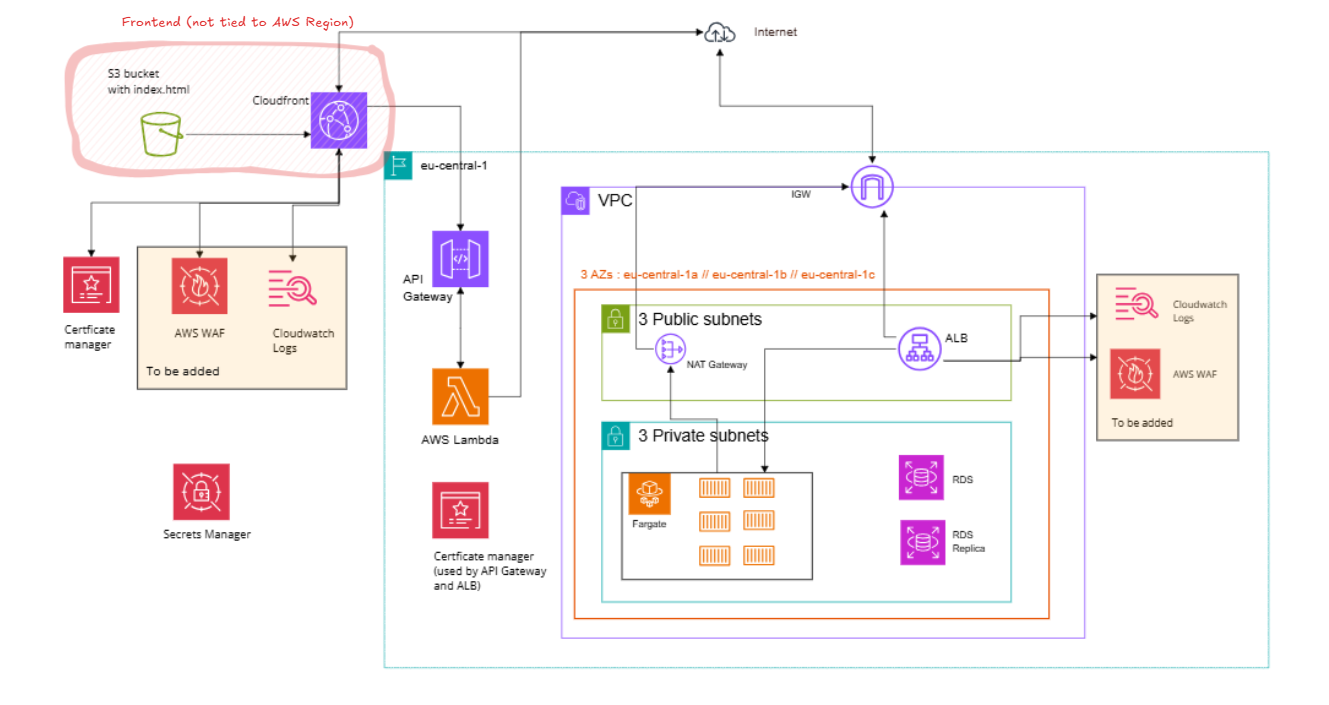
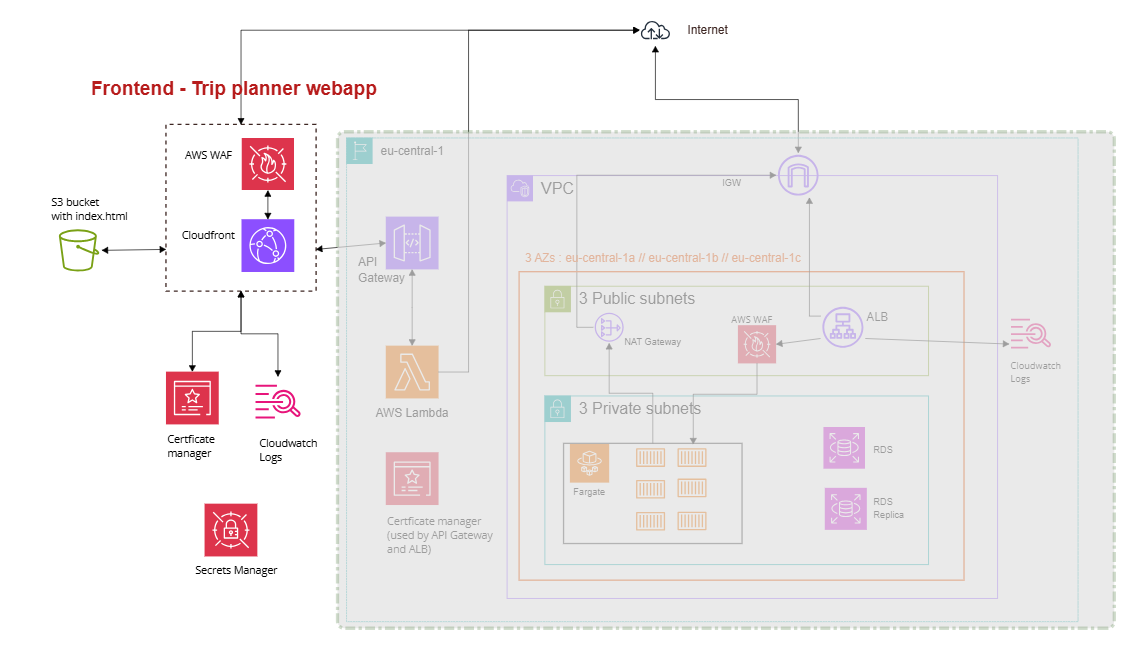
chore: update README

Changed region(s): [[0.0308, 0.0305, 0.9842, 0.9771], [0.3691, 0.0305, 0.6459, 0.0611], [0.5228, 0.1221, 0.6459, 0.1527]]

diff --git a/README.md b/README.md
@@ -1,70 +1,93 @@
 # Trip Planner Infrastructure - managed with Terraform on AWS
-  
-<img src="docs/full-diagram.png" alt="trip-planner-infrastructure">
 
 # Table of Contents
-- [Backend Infrastructure (TripPlannerAPI)](#backend-infrastructure-of-tripplannerapi)
-  - [Infrastructure Overview](#infrastructure-overview)
-  - [Gotchas & Lessons Learned](#-gotcha---what-i-have-learned)
+- [Backend Infrastructure (TripPlannerAPI)](#backend-infrastructure-tripplannerapi)
+  - [Overview](#overview)
+  - [Key Attributes](#key-attributes)
+  - [Gotchas & Lessons Learned](#-gotchas---lessons-learned-sometimes-the-hard-way)
 - [Locations API (AWS Lambda + API Gateway)](#locations-api-aws-lambda--api-gateway)
-  - [Infrastructure Overview](#infrastructure-overview-1)
-  - [Environment Variables & Secrets](#env-variables-and-secret-api-key)
+  - [Overview](#overview-1)
+  - [Key Attributes](#key-attributes-1)
+  - [Environment Variables & Secret API Key](#env-variables-and-secret-api-key)
   - [API Usage](#api-usage)
-  - [Gotchas & Notes](#-gotcha---notes)
+  - [Gotchas & Notes](#-gotchas---lessons-learned-sometimes-the-hard-way-1)
 - [Frontend - Trip Planner Web App](#frontend---trip-planner-web-app)
-  - [Stack](#stack)
-  - [Security](#security)
-  - [Gotchas & Notes](#-gotcha---notes-1)
-  
-# Backend infrastructure of TripPlannerAPI
-> Deployment of Containerised Web App to AWS Fargate and RDS database with Terraform
+  - [Overview](#overview-2)
+  - [Key Attributes](#key-attributes-2)
+    - [Security](#security)
+    - [Maintainability](#maintainability)
+    - [Scalability](#scalability)
+    - [Reliability](#reliability)
+  - [Gotchas & Notes](#-gotcha---notes)
 
-The backend is a Spring Boot application serves as the backend counterpart to the [Trip Planner Web App](https://github.com/lrasata/trip-planner-web-app).
-It provides endpoints to create, read, update, and delete trip data, enabling seamless trip planning and management.
+  
+# Overview
+This repository manages the infrastructure for the Trip Planner application using **Terraform** on **AWS**.
+
+The application includes:
+- Backend API (ECS + RDS)
+- Locations API (Lambda + API Gateway)
+- Frontend Web App (S3 + CloudFront)
+
+The architecture is designed to be **robust, secure, and scalable**, leveraging AWS managed services to reduce operational overhead.
+
+<img src="docs/full-diagram.png" alt="trip-planner-infrastructure">
+
+# Backend infrastructure (TripPlannerAPI)
+## Overview
+The backend is a **Spring Boot application** that serves the Trip Planner Web App, providing CRUD operations for trip data.
 
 <img src="docs/backend-diagram.png" alt="trip-planner-backend-api-infra">
 
-#### Infrastructure Overview
-- **Containerization & Orchestration:** The backend runs as Docker containers deployed on AWS Fargate, a serverless compute engine for containers. This eliminates the need to manage EC2 instances and simplifies scaling and maintenance.
-- **Database:** A PostgreSQL database is provisioned and managed by AWS RDS (Relational Database Service). This managed service provides automated backups, patching, and high availability features, ensuring reliable storage of trip and user data.
-- **Networking & Security:** The ECS tasks (Fargate containers) run inside a private subnet within a dedicated VPC, separate from the subnet where the RDS database resides. This segmentation enhances security and isolates compute resources.
-  Communication between ECS tasks and the RDS instance is secured via tightly scoped security groups, allowing only necessary traffic on the PostgreSQL port (5432).
-- **Scalability & High Availability:** The infrastructure is designed to scale out as demand increases, with ECS Service managing the lifecycle and count of task containers. The RDS database spans multiple availability zones through subnet groups to provide resilience and minimize downtime.
-- **Secrets Management:** Database credentials and sensitive configuration values are securely stored and accessed via AWS Secrets Manager, reducing the risk of credential leaks and simplifying secret rotation.
-- **Observability:** Application logs from ECS tasks are streamed to AWS CloudWatch Logs, enabling real-time monitoring, troubleshooting, and alerting.
+## Key Attributes
 
-This architecture offers a robust, secure, and scalable backend environment to power the Trip Planner application, taking full advantage of AWS managed services to reduce operational overhead and improve reliability.
+**Maintainability**
+- Runs as **Docker containers on AWS Fargate**, removing the need to manage EC2 instances.
+- Easy to scale and maintain.
 
-## 🔍 Gotcha -  what I have learned
+**Reliability**
+- **PostgreSQL via AWS RDS** with automated backups, patching, and high availability.
+
+**Scalability**
+- ECS Service manages container count automatically as traffic grows.
+
+**Security**
+- ECS tasks and RDS run in **private subnets** inside a dedicated VPC.
+- **Application Load Balancer (ALB)** routes traffic from public to private subnets.
+- **AWS WAF** is tied to the ALB to protect against common web attacks.
+- Secrets are stored securely in **AWS Secrets Manager**.
+
+**Monitoring**
+- ECS logs are streamed to **AWS CloudWatch Logs** for real-time monitoring and troubleshooting.
+
+
+## 🔍 Gotchas -  Lessons learned ( sometimes the hard way...)
 ### RDS - Database
-- ✅ *RDS Password Surprise:* Always provide a strong, non-trivial password to AWS RDS — even for testing. A weak password like postgres may be silently rejected by AWS, and RDS will auto-generate a new password, saving it in AWS Secrets Manager. Check this under DB Instance > Configuration > Master credentials ARN.
+- *RDS Password Surprise:* Always provide a strong, non-trivial password to AWS RDS — even for testing. A weak password like postgres may be silently rejected by AWS, and RDS will auto-generate a new password, saving it in AWS Secrets Manager. Check this under DB Instance > Configuration > Master credentials ARN.
     - In this case you may manually update secrets password provided to the ECS Service to align with the AWS RDS generated password.
-- 🌐 *RDS Subnet Requirement:* AWS RDS in production mode requires at least two subnets in different availability zones to enable high availability. If you only provide one, deployment will fail silently or behave unexpectedly.
-- 🧠 *Database Connectivity Doesn't Show Up in RDS UI:* The “connected compute resources” in the RDS console is not always accurate for ECS or non-EC2 clients. Don’t rely on it to debug connectivity.
+- *RDS Subnet Requirement:* AWS RDS in production mode requires at least two subnets in different availability zones to enable high availability. If you only provide one, deployment will fail silently or behave unexpectedly.
+- *Database Connectivity Doesn't Show Up in RDS UI:* The “connected compute resources” in the RDS console is not always accurate for ECS or non-EC2 clients. Don’t rely on it to debug connectivity.
 
 ### ALB
-- 🧱 *Target Group Unhealthy == No Traffic:* If your ECS container is running but your ALB Target Group is showing “unhealthy” targets, the ALB will not forward traffic. This is typically caused by:
+- *Target Group Unhealthy == No Traffic:* If your ECS container is running but your ALB Target Group is showing “unhealthy” targets, the ALB will not forward traffic. This is typically caused by:
     - Wrong health check path (e.g., / vs /actuator/health)
     - Port mismatch (container not listening on the expected port)
     - Network/security group misconfig
-- 🕳 *504 Gateway Timeout ≠ Network Issue:* A 504 from the Load Balancer often just means the ECS container failed to start up fully or didn't bind to the correct port (e.g., 8080). Check that your application is actually listening on the port expected by the ALB Target Group.
+- *504 Gateway Timeout ≠ Network Issue:* A 504 from the Load Balancer often just means the ECS container failed to start up fully or didn't bind to the correct port (e.g., 8080). Check that your application is actually listening on the port expected by the ALB Target Group.
 
 ### ECS
-- 🐢 *ECS Container Start = Slower Than Expected:* Don't expect ECS Fargate to start containers instantly. Between image pulling, network setup, and health checks, startup can take 1–2+ minutes.
+- *ECS Container Start = Slower Than Expected:* Don't expect ECS Fargate to start containers instantly. Between image pulling, network setup, and health checks, startup can take 1–2+ minutes.
 
 ### Secrets Manager
-- 🔐 *SecretsManager ≠ Instant Fix:* Referencing secrets inside ECS task definitions must follow exact syntax (valueFrom must use the full ARN or proper SecretsManager parameter name). Mismatched names will cause cryptic errors.
+- *SecretsManager ≠ Instant Fix:* Referencing secrets inside ECS task definitions must follow exact syntax (valueFrom must use the full ARN or proper SecretsManager parameter name). Mismatched names will cause cryptic errors.
 
 ### Terraform
-- 🛑 *Security Group Deletion Blocked:* Terraform cannot delete a security group if it's still attached to active resources (like ECS, ALB, or RDS) — even if the plan shows successful validation. This can stall terraform destroy for several minutes.
-- 🔄 *Terraform Ordering Matters:* Ensure ECS services depend on RDS or networking modules (depends_on), otherwise containers may try to start before the DB is available.
+- *Security Group Deletion Blocked:* Terraform cannot delete a security group if it's still attached to active resources (like ECS, ALB, or RDS) — even if the plan shows successful validation. This can stall terraform destroy for several minutes.
+- *Terraform Ordering Matters:* Ensure ECS services depend on RDS or networking modules (depends_on), otherwise containers may try to start before the DB is available.
 
-# Locations API (AWS Lambda + API Gateway)
-Those components provide a secure serverless API for accessing location data, powered by AWS Lambda and API Gateway.
+# Locations API
 
-<img src="./docs/locations-api.png" alt="location-api-diagram">
-
-### Infrastructure Overview
+## Overview
 
 [Trip planner web app](https://github.com/lrasata/trip-planner-web-app) is using [Geo DB API](https://rapidapi.com/wirefreethought/api/geodb-cities)
 to fetch data related to cities and countries.
@@ -75,20 +98,32 @@ To be able to deploy [Trip planner web app](https://github.com/lrasata/trip-plan
 But the challenge is, to inject secrets securely in a React + Vite app, secrets must be separated from
 the frontend and a backend must be used to access them. **There is no secure way to keep a secret in a public browser app.**
 
-> ✅ Locations API has been created to provide an API endpoint to call for the frontend without requiring any secrets.
+Locations API has been created to provide an API endpoint to call for the frontend without requiring any secrets. Those components provide a secure serverless API for accessing location data, powered by AWS Lambda and API Gateway.
 
-## Stack
+<img src="./docs/locations-api.png" alt="location-api-diagram">
 
-- **Runtime**: Node.js (Express-style Lambda)
-- **Infrastructure**: AWS Lambda, API Gateway (REST), Terraform
-- **Secrets**: AWS Lambda environment variables
-- **Security**: API Gateway integration
+## Key attributes
+**Security**
+- Secrets like API keys are stored in AWS Secrets Manager and passed to Lambda via environment variables, preventing exposure in the frontend.
+- No sensitive data is ever stored in the browser or client code.
+
+**Maintainability**
+- Usage of serverless architecture (AWS Lambda) to avoid managing servers, making deployments and updates easier.
+- Node.js runtime and Express-style Lambda code structure to simplify development and debugging.
+
+**Scalability**
+- Lambda functions automatically scale based on incoming request volume.
+- API Gateway handles request routing and can throttle.
+
+**Reliability**
+- Managed AWS services like Lambda and API Gateway provide built-in high availability.
+- Error handling and CORS headers are implemented to prevent client-side failures.
 
 ## Env variables and secret API key
 
 **Local development**
 
-In `lambda/hadnler.js`, the secret (e.g., API key) should be passed via environment variables in Terraform:
+In `lambda/handler.js`, the secret (e.g., API key) should be passed via environment variables in Terraform:
 
 ```js
 Authorization: 'Bearer ${process.env.GEO_DB_RAPID_API_KEY}'
@@ -104,9 +139,9 @@ GEO_DB_RAPID_API_KEY=
 
 **For deployed env on AWS**
 
-Secrets has to be defined in AWS Secrets Manager inside : `prod/trip-planner-app/secrets` as configure in Terraform file.
+Secrets have to be defined in AWS Secrets Manager inside : `prod/trip-planner-app/secrets` as configure in Terraform file.
 
-Environment variables has to be defined in `terraform.tfvars`
+Environment variables have to be defined in `terraform.tfvars`
 
 ## API Usage
 
@@ -121,46 +156,53 @@ Query parameters :
 curl https://<your-api-id>.execute-api.<region>.amazonaws.com/prod/locations?dataType=city&namePrefix=Paris
 ```
 
-## 🔎 Gotcha - Notes
-- OPTIONS method should stay with CORS headers in API Gateway.
+## 🔎 Gotchas - Lessons learned (sometimes the hard way...)
+- OPTIONS method should stay with *CORS headers* in API Gateway.
   - API Gateway can automatically respond to preflight OPTIONS requests (which browsers send to check permissions) without invoking your Lambda — this reduces Lambda invocations and saves cost.
-- For GET requests (or any non-OPTIONS request), Lambda function must return the CORS headers.
+- For GET requests (or any non-OPTIONS request), Lambda function MUST return the CORS headers.
 - No need to set CORS headers on API Gateway for GET/POST when using `Lambda proxy integration`.
   - But ensure your Lambda function handles CORS headers for all responses (including errors).
 
-> 💡 Let API Gateway manage CORS whenever possible 💡
-> - API Gateway is designed to handle cross-origin resource sharing (CORS) settings centrally.
-> - API Gateway can add necessary CORS headers on the response for all your API calls consistently.
-> - Keep Lambda code simpler and focused on business logic.
+> 💡 Let API Gateway manage CORS whenever possible - Keep Lambda code simpler and focused on business logic.
+> 
+> API Gateway is designed to handle cross-origin resource sharing (CORS) settings centrally.
+
 
 # Frontend - Trip planner web app
 
-> Deployment of CloudFront + S3 + Lambda@Edge for SPA Hosting
+## Overview
+This part of the infrastructure sets up an AWS **CloudFront distribution** to serve a **Single Page Application (SPA)** from an **S3 bucket**, using **Lambda@Edge** to handle routing for client-side routes. It ensures that all SPA routes return `index.html` while keeping the S3 bucket secure and private.
 
 <img src="docs/frontend-diagram.png" alt="trip-planner-frontend-infra">
 
-This part of the infra sets up an AWS **CloudFront distribution** to serve a **Single Page Application (SPA)** from an **S3 bucket**, using **Lambda@Edge** to handle routing for client-side routes. It ensures that all SPA routes return `index.html` while keeping the S3 bucket secure and private.
-
-## Stack
-
-- **Lambda@Edge:** Handles viewer requests to serve `index.html` for routes that do not exist in S3.
-- **CloudFront CDN:** Provides caching, HTTPS, and custom domain support.
-- **S3 Bucket:** Private bucket with versioning enabled for static SPA files.
-- **Secure Access:** Only CloudFront can access the S3 bucket via Origin Access Control (OAC).
-
-## Security
+## Key Attributes
+### Security
 - S3 bucket blocks all public access.
-- CloudFront Origin Access Control ensures only CloudFront can access the bucket.
-- Lambda@Edge uses minimal IAM permissions via AWSLambdaBasicExecutionRole.
+- CloudFront Origin Access Control (OAC) ensures only CloudFront can access the S3 bucket.
+- Lambda@Edge uses minimal IAM permissions via `AWSLambdaBasicExecutionRole`.
+- Custom header : `X-Custom-Auth`is injected by CloudFront to securely communicate with `LocationsAPI`.
+
+### Maintainability
+- Lambda@Edge centralizes route handling for SPA, reducing manual S3 configuration.
+- Versioning enabled on S3 allows easy rollback of static assets.
+
+### Scalability
+- **CloudFront CDN** caches content globally, reducing latency and improving user experience.
+- Static content served from S3 scales automatically with traffic.
+- Lambda@Edge executes at edge locations, distributing the load worldwide.
+
+### Reliability
+- CloudFront + S3 + Lambda@Edge provides high availability and low downtime.
+- HTTPS is enabled with ACM certificates, ensuring secure and reliable access.
 
 ## 🔎 Gotcha - Notes
-- Frontend app must be built with `npm run build` before deploying adn /dist folder must de sync with S3 bucket.
-- Terraform handles static file upload from ./dist
-- Lambda@Edge must be deployed in `us-east-1` region, as this is the only region that supports Lambda@Edge.
-- Certificates must be requested in `us-east-1` for CloudFront to work with HTTPS
--  Frontend app must use the cloudfront URL as the API endpoint, not the API Gateway URL. This is because only CloudFront is able to inject the Custom Header `X-Custom-Auth` with the correct secret value recognised by the API Gateway.
-   - in this case : `VITE_API_LOCATIONS=https://epic-trip-planner.com/locations`
-   - NOT : `VITE_API_LOCATIONS=https://api-locations.epic-trip-planner.com/locations` - hitting the API Gateway directly will not work as it does not inject the custom header.
+- Build the frontend with `npm run build` and sync the `./dist` folder to S3 before deployment.
+- Lambda@Edge must be deployed in `us-east-1`, the only region supporting it.
+- ACM certificates for HTTPS for CloudFront must also be requested in `us-east-1`.
+- SPA must use the CloudFront URL as the API endpoint to allow CloudFront to inject the required custom header for API Gateway:
+  - Correct: `VITE_API_LOCATIONS=https://epic-trip-planner.com/locations`
+  - Incorrect: `VITE_API_LOCATIONS=https://api-locations.epic-trip-planner.com/locations` - hitting the API Gateway directly will not work as it does not inject the custom header required by the API Gateway.
+
 
 ## TODO tasks
 - [ ] Integrate 3 different envs : `dev | stage | prod`
